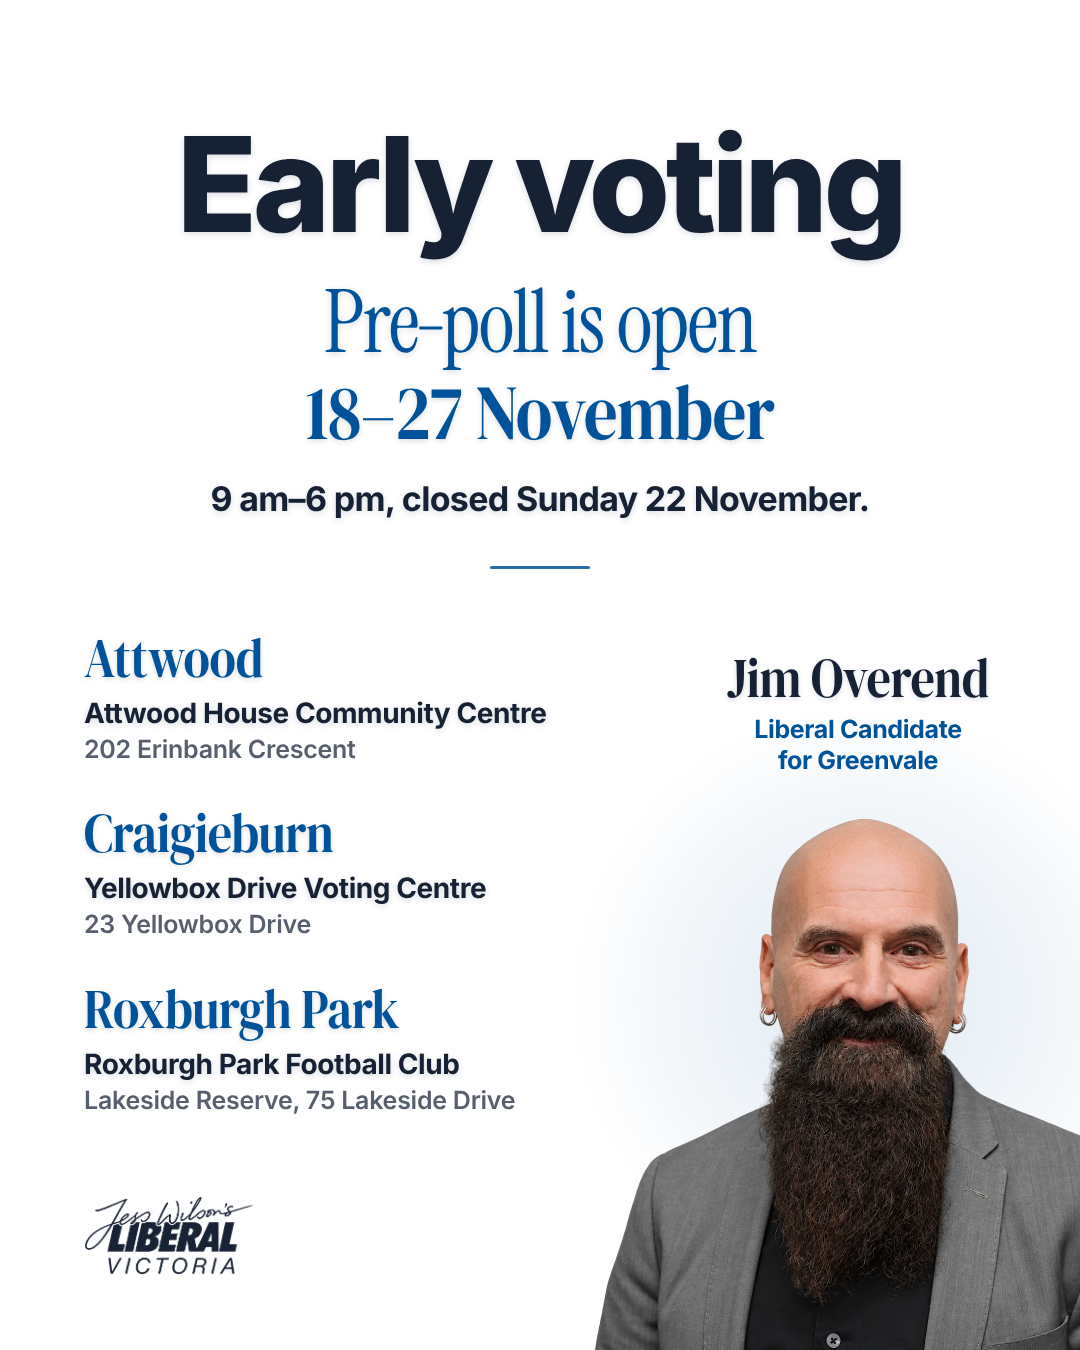
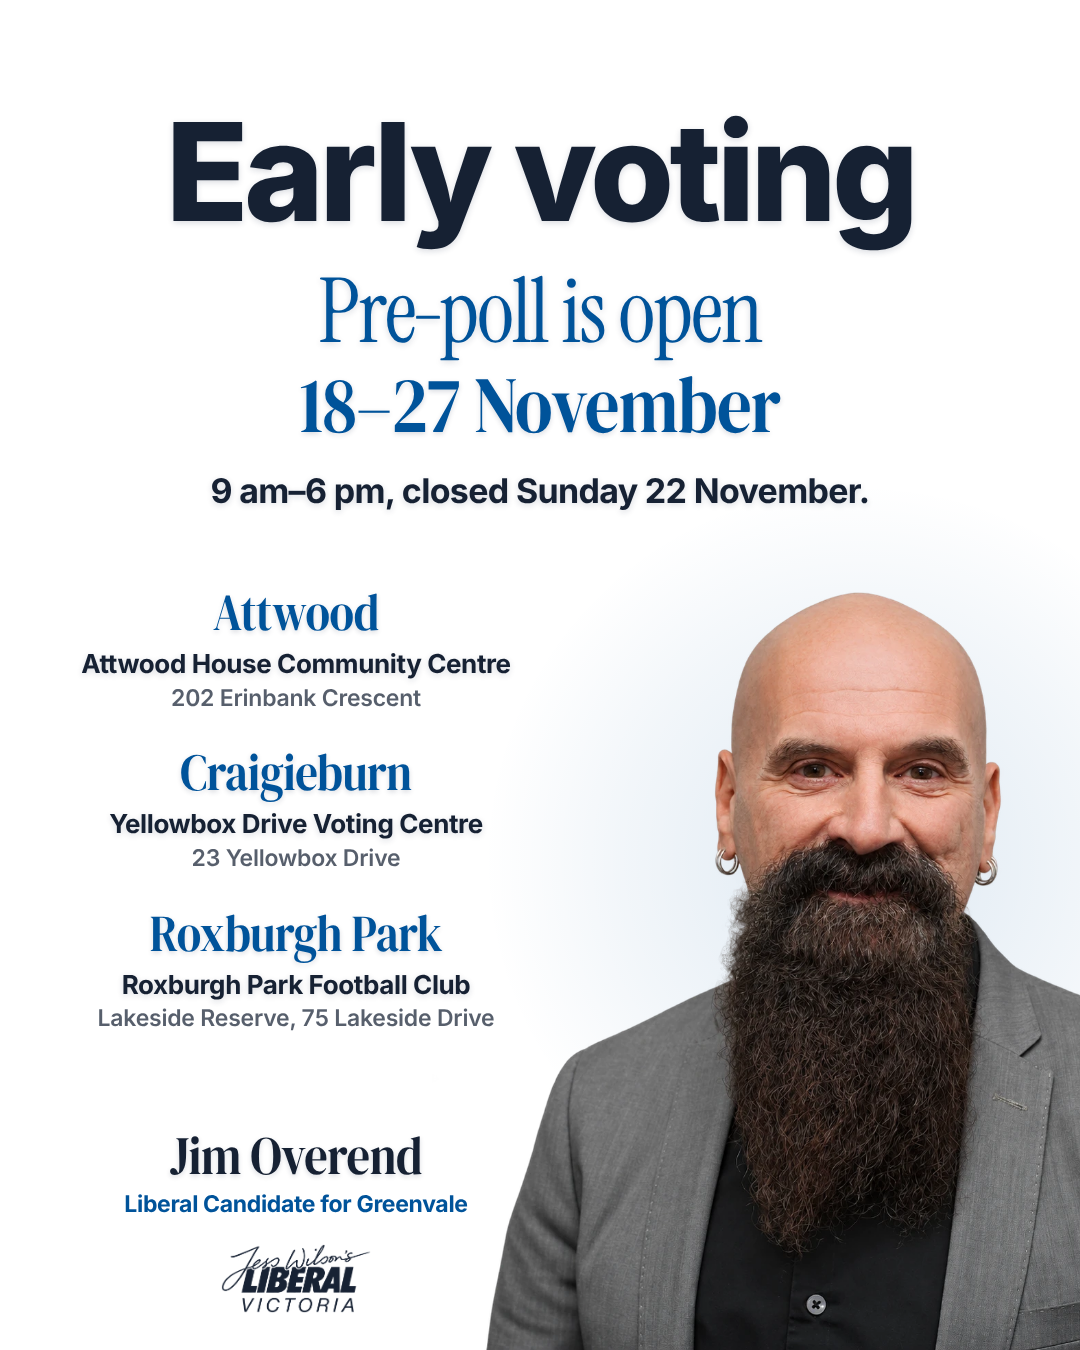
Light early voting card: centred type, larger candidate
Move closer to the Postal reference: centre all type with more white
space and drop the divider rule. Enlarge the Jim Overend cut-out (~35%)
to fill the right side, bleeding off the edges; venues, name and logo
centred in the left column.

Claude-Session: https://claude.ai/code/session_01MT6wivusBEagFnhed7SAun

diff --git a/designs/greenvale-early-voting/source/early-voting-light.html b/designs/greenvale-early-voting/source/early-voting-light.html
@@ -21,12 +21,12 @@ h1{font-family:"Inter";font-weight:800;color:var(--navy);letter-spacing:-.035em;
 .serif .lt{font-family:"Serif Light";font-size:1.12em;letter-spacing:-.02em}
 .serif .bd{font-family:"Serif Bold";display:inline-block;transform:scaleX(.86);transform-origin:50% 50%}
 .note{font-family:"Inter";font-weight:700;color:var(--navy);letter-spacing:-.02em;line-height:1.25;text-shadow:var(--shadow)}
-#list{display:flex;flex-direction:column}
-.v .sub{font-family:"Serif Bold";color:var(--blue);line-height:1;letter-spacing:-.01em;transform:scaleX(.86);transform-origin:0 50%;white-space:nowrap;text-shadow:var(--shadow)}
+#list{display:flex;flex-direction:column;text-align:center}
+.v .sub{font-family:"Serif Bold";color:var(--blue);line-height:1;letter-spacing:-.01em;transform:scaleX(.86);transform-origin:50% 50%;white-space:nowrap;text-shadow:var(--shadow)}
 .v .venue{margin-top:10px;font-family:"Inter";font-weight:700;color:var(--navy);letter-spacing:-.015em;line-height:1.25;text-shadow:var(--shadow)}
 .v .addr{margin-top:3px;font-family:"Inter";font-weight:600;color:rgba(22,33,51,.72);letter-spacing:-.01em;line-height:1.25}
-#rule{height:3px;border-radius:2px;background:var(--blue);opacity:.85}
-#name{text-align:center;transform:translateX(-50%)}
+#rule{display:none}
+#name{text-align:center}
 #name .n{font-family:"Serif Bold";color:var(--navy);line-height:1;letter-spacing:-.01em;transform:scaleX(.86);transform-origin:50% 50%;white-space:nowrap;text-shadow:var(--shadow)}
 #name .r{margin-top:8px;font-family:"Inter";font-weight:700;color:var(--blue);letter-spacing:-.015em;line-height:1.25}
 /* soft blue halo behind the candidate so the cut-out sits on the white rather than floating */
@@ -46,31 +46,31 @@ h1{font-family:"Inter";font-weight:800;color:var(--navy);letter-spacing:-.035em;
 <script>
 const P = Object.assign({
   // Defaults = the published layout. Override any key via ?p={"key":value} (see render.js).
-  head:'Early voting', hTop:118, hSize:132,
-  dates:'<span class="lt">Pre<span style="margin:0 -.07em">-</span>poll is open</span><br><span class="bd">18–27 November</span>', dTop:276, dSize:78,
-  hours:'9 am–6 pm, closed Sunday 22 November.', hrTop:478, hrSize:34,
+  head:'Early voting', hTop:104, hSize:136,
+  dates:'<span class="lt">Pre<span style="margin:0 -.07em">-</span>poll is open</span><br><span class="bd">18–27 November</span>', dTop:264, dSize:80,
+  hours:'9 am–6 pm, closed Sunday 22 November.', hrTop:470, hrSize:34,
   rule:[490,566,100],                       // short blue rule: left, top, width (centred under the header)
   venues:[
     ['Attwood','Attwood House Community Centre','202 Erinbank Crescent'],
     ['Craigieburn','Yellowbox Drive Voting Centre','23 Yellowbox Drive'],
     ['Roxburgh Park','Roxburgh Park Football Club','Lakeside Reserve, 75 Lakeside Drive'],
   ],
-  list:{left:84, top:630, gap:40, subSize:56, venueSize:28, addrSize:25},
-  jim:[552,770,630], halo:[866,1000,600],    // portrait left, top, width; halo centre x, y, diameter
-  name:{left:858, top:650, size:56, text:'Jim Overend', role:'Liberal Candidate<br>for Greenvale', roleSize:25},
-  logo:[84,1196,170]                         // left, top, width
+  list:{left:36, top:586, width:520, gap:34, subSize:52, venueSize:26, addrSize:23},
+  jim:[432,526,860], halo:[860,860,760],    // portrait left, top, width; halo centre x, y, diameter
+  name:{left:36, width:520, top:1128, size:54, text:'Jim Overend', role:'Liberal Candidate for Greenvale', roleSize:23},
+  logo:[221,1244,150]                         // left, top, width
 }, JSON.parse(new URLSearchParams(location.search).get('p')||'{}'));
 const $=id=>document.getElementById(id), px=v=>v+'px';
 Object.assign($('h').style,{top:px(P.hTop),fontSize:px(P.hSize)}); $('h').innerHTML=P.head;
 Object.assign($('dates').style,{top:px(P.dTop),fontSize:px(P.dSize)}); $('dates').innerHTML=P.dates;
 Object.assign($('hours').style,{top:px(P.hrTop),fontSize:px(P.hrSize)}); $('hours').innerHTML=P.hours;
 Object.assign($('rule').style,{left:px(P.rule[0]),top:px(P.rule[1]),width:px(P.rule[2])});
-const L=P.list; Object.assign($('list').style,{left:px(L.left),top:px(L.top),gap:px(L.gap)});
+const L=P.list; Object.assign($('list').style,{left:px(L.left),top:px(L.top),width:px(L.width),gap:px(L.gap)});
 $('list').innerHTML=P.venues.map(([s,v,a])=>`<div class="v"><div class="sub" style="font-size:${L.subSize}px">${s}</div>
   <div class="venue" style="font-size:${L.venueSize}px">${v}</div><div class="addr" style="font-size:${L.addrSize}px">${a}</div></div>`).join('');
 const [jx,jy,jw]=P.jim; Object.assign($('jim').style,{left:px(jx),top:px(jy),width:px(jw)});
 const [hx,hy,hd]=P.halo; Object.assign($('halo').style,{left:px(hx-hd/2),top:px(hy-hd/2),width:px(hd),height:px(hd)});
-const N=P.name; Object.assign($('name').style,{left:px(N.left),top:px(N.top)});
+const N=P.name; Object.assign($('name').style,{left:px(N.left),top:px(N.top),width:px(N.width)});
 $('name').querySelector('.n').innerHTML=N.text; $('name').querySelector('.n').style.fontSize=px(N.size);
 $('name').querySelector('.r').innerHTML=N.role; $('name').querySelector('.r').style.fontSize=px(N.roleSize);
 const [lx,ly,lw]=P.logo; Object.assign($('logo').style,{left:px(lx),top:px(ly),width:px(lw)});

diff --git a/designs/greenvale-early-voting/README.md b/designs/greenvale-early-voting/README.md
@@ -6,8 +6,9 @@ numbered pins, a matching numbered venue list, and the Jess Wilson's Liberal Vic
 
 - `greenvale-early-voting-light.png` / `@2x` — **latest: 1080×1350 light card** after the "Postal" reference:
   white ground, heavy navy Inter ExtraBold heading, blue condensed serif (Instrument Serif light + DM Serif
-  Display bold), bold navy sans supporting lines with a soft text shadow; venues on the left, candidate
-  cut-out with name on the right, navy logo (`logo-navy.png`, the white wordmark recoloured #162133). No map.
+  Display bold), bold navy sans supporting lines with a soft text shadow; all type centred with generous white
+  space like the reference; venues, name and logo centred in the left column beside a large candidate
+  cut-out bleeding off the right and bottom edges; navy logo (`logo-navy.png`, the white wordmark recoloured #162133). No map.
   Source: `source/early-voting-light.html`
   (`node render.js '{}' early-voting-light.html greenvale-early-voting-light`).
 - `greenvale-early-voting-portrait.png` / `@2x` — 1080×1350 card (4:5, feed-friendly) laid out after the
